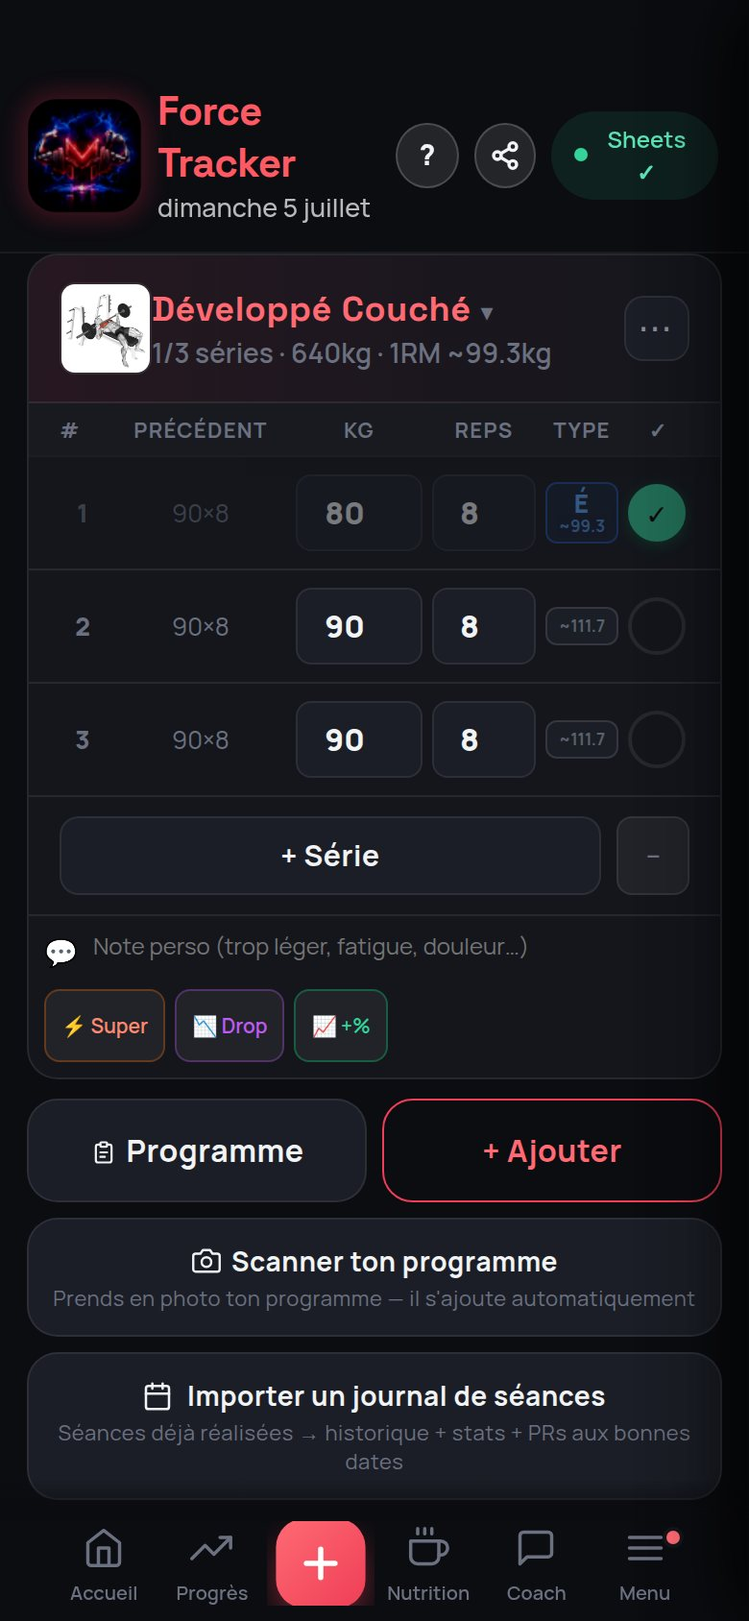
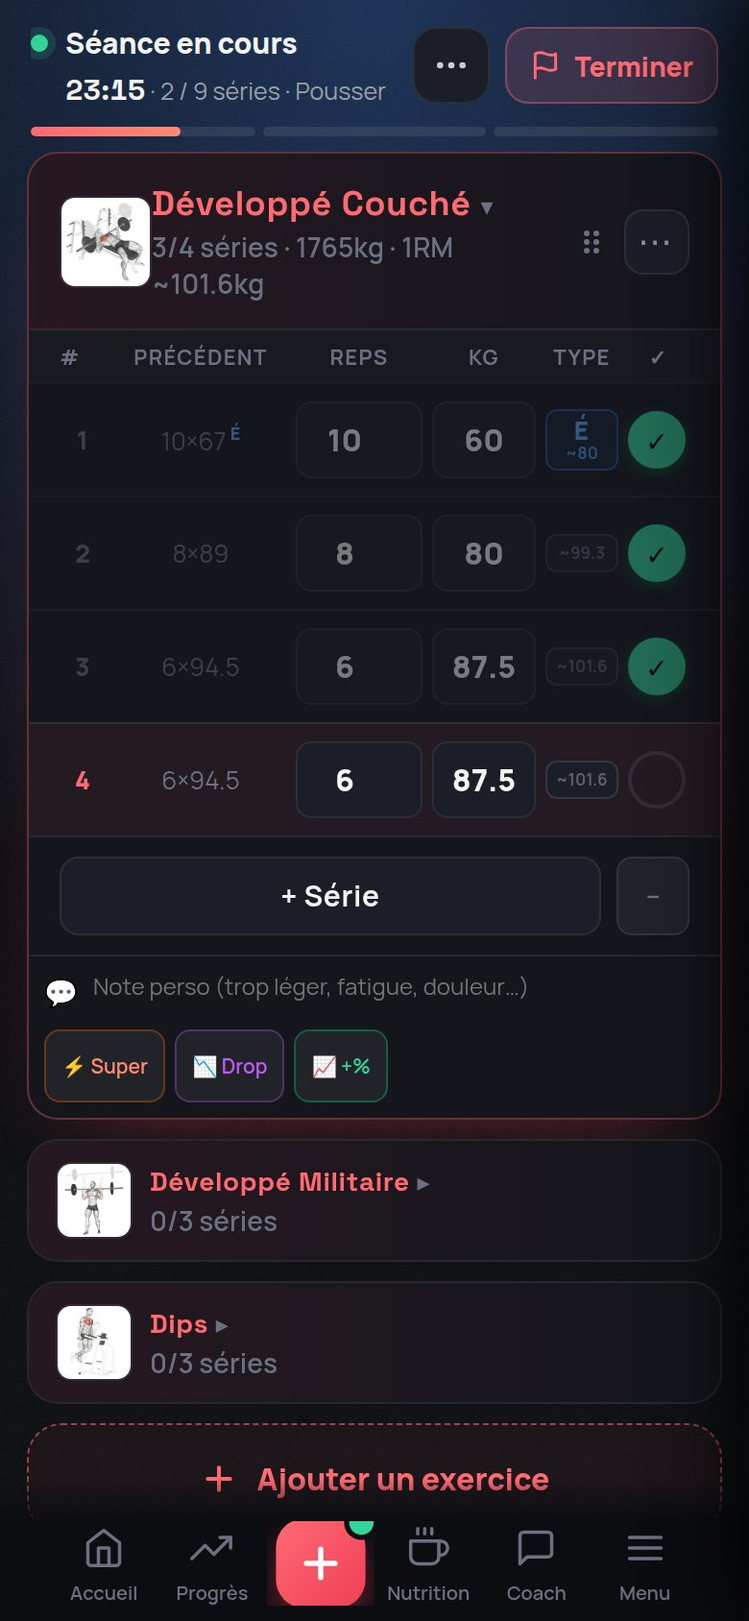
UX SÉANCE étapes 8-9 : règle d'or #11 (point rouge « seance-ux », aide « ? » de Séance, aide détaillée, pop-up « Quoi de neuf » v78 méritée : des repères ont bougé), diapo « Ta séance » du Guide (capture refaite, profil fictif, doigt sur la série en cours), anciennes aides corrigées (Pause / Vider /
Claude-Session: https://claude.ai/code/session_016mARM2eBnMWn61kG78Qd6C

diff --git a/coach.js b/coach.js
@@ -8402,7 +8402,7 @@ const _DRAWER_CONTENT = {
         +pcard('👟','Les chaussures','Haltéro/squat : chaussure à talon rigide (meilleure profondeur, buste plus droit). Soulevé de terre : semelle PLATE et fine (chausson, Converse) pour être stable et proche du sol. Évite les grosses semelles moelleuses sous la barre.',[{src:'accessoires/chaussures.jpg'}])
         +pcard('🧗♂','Craie / magnésie','Assèche les mains → bien meilleure prise sur la barre. Indispensable sur les soulevés lourds. Existe en <b>bloc/poudre</b> (le plus efficace) ou en <b>version liquide</b>, plus propre et souvent autorisée quand ta salle interdit la poudre.',[{src:'accessoires/magnesie-bloc.jpg',cap:'Bloc / poudre'},{src:'accessoires/magnesie-liquide.jpg',cap:'Liquide'}])
         +sec('🔥 Les techniques — monte en intensité')
-        +card('⚡','Superset','Deux exercices ENCHAÎNÉS sans repos (ex. biceps + triceps). Gain de temps + grosse congestion. Dans Force Tracker : bouton « ⚡ Grouper » en séance, ou « Superset » dans l\'éditeur de programme.')
+        +card('⚡','Superset','Deux exercices ENCHAÎNÉS sans repos (ex. biceps + triceps). Gain de temps + grosse congestion. Dans Force Tracker : « Grouper des exercices » dans le menu ⋯ de la séance, ou « Superset » dans l\'éditeur de programme.')
         +card('📉','Drop set','Tu vas à l\'échec, puis tu BAISSES la charge (~20%) et tu continues sans repos, une ou plusieurs fois. Brutal pour finir un muscle. Dispo via le bouton 📉 Drop.')
         +card('⏸','Rest-pause','À l\'échec, tu poses la barre 10-15s, puis tu arraches quelques reps de plus. Permet plus de reps avec la même charge lourde.')
         +card('🔺','Pyramide','Tu montes la charge en baissant les reps série après série (ex. 12→10→8→6), ou l\'inverse. Bon mélange volume + force. Bouton 📈 +% en séance.')
@@ -8451,6 +8451,10 @@ const _DRAWER_CONTENT = {
            une question ouverte. */
         {ic:'🏃',t:'Noter un cardio ≠ enregistrer la séance',d:'Le bloc <b>Cardio</b> de l\'écran Séance sert à <b>noter</b> : le type (tapis, vélo, rameur…), l\'intensité et la durée, <b>avant</b> la muscu (échauffement) ou <b>après</b> (cardio de fin). Son bouton s\'appelle <b>« ✓ C\'est noté »</b> et il ne fait qu\'une chose : ranger ta saisie et replier le bloc. <b>Il n\'enregistre pas ta séance</b>, et c\'est voulu — on saisit souvent son cardio <b>pendant</b> qu\'on s\'entraîne, pas à la fin.<br><br>⭐ <b>Un seul bouton rouge par écran, et c\'est celui qui enregistre.</b> En bas de l\'écran Séance : <b>« 🏁 Terminer la séance »</b> si tu as validé des séries, <b>« 🏁 Enregistrer le cardio »</b> si tu n\'as fait que du cardio. Avant le 04/09/2026 le bouton du bloc était rouge lui aussi et disait « Enregistrer le cardio » : <b>deux boutons, presque les mêmes mots, un seul enregistrait</b>. Rien ne permettait de les distinguer.<br><br>⚠ <b>Ce que ça coûtait</b> : une séance de cardio seul n\'a aucun exercice, et plusieurs endroits de l\'app en déduisaient « il n\'y a rien ». Tu pouvais noter 45 min de tapis, repasser par l\'Accueil, retaper le bouton rouge — et ta saisie disparaissait sans un mot. C\'est corrigé : tant qu\'une séance attend, l\'Accueil affiche <b>« ↩ Reprendre la séance »</b>, l\'app te le redit à l\'ouverture, et une copie de secours est gardée.<br><br>⭐ <b>Une séance de cardio seul est une vraie séance</b> : elle a sa durée, ses calories (calculées depuis le MET du type et ton poids), elle apparaît dans ton calendrier, elle ferme une séance annoncée à Milo, et Milo en tient compte. ⚠ En revanche elle pèse encore <b>peu</b> sur ton score de récupération — ce barème-là reste à régler, et on ne l\'invente pas.'},
         {ic:'⚡',t:'Démarrer une séance',d:'Bouton rouge central ⚡ en bas de l\'écran (le « + »). Ajoute tes exercices, saisis kg × reps, valide chaque série avec ✓. Le timer de repos se lance automatiquement entre les séries — et c\'est un <b>MAXIMUM</b>, pas un temps à attendre : tu peux repartir avant, c\'est permis. Il ne s\'arrête plus à zéro, il continue en +0:12, +0:45… avec « au-delà de ton repos max ». ⚠ Ce n\'est ni un reproche ni une erreur d\'affichage : c\'est une information, parce que le repos réellement pris vaut souvent 2 à 3 fois le repos réglé. Au-delà de 15 min il s\'arrête seul (ce n\'est plus un repos). Astuce : dans la recherche d\'exercices, tes FAVORIS (ceux que tu utilises le plus souvent) remontent automatiquement en tête, avec une ★ — tu retrouves tes mouvements habituels sans scroller.'},
+        /* 🏋 UX SÉANCE (16/10/2026, cadrage validé) — règle d'or #11, point 4 : l'aide détaillée de la nouvelle forme de
+           l'écran. L'endroit du POURQUOI : ce qui sert à la salle reste sous la main, le rare est rangé — et ce qui NE
+           change PAS (séries, records, historique, moteur du repos). */
+        {ic:'🏋',t:'L\'écran Séance : ce qui a changé, et pourquoi',d:'Depuis le <b>16/10/2026</b>, l\'écran Séance garde sous la main ce qui sert <b>à la salle</b> et range le reste. <b>Avant</b> la séance : « Séance libre » ou « Programme », puis ta récup et ta dernière séance, les types de séance, et plus bas le cardio et l\'import. <b>Pendant</b> : la barre du haut devient l\'<b>en-tête de la séance</b> — chrono, <b>séries de travail faites / prévues</b> (les échauffements ne comptent pas, comme pour savoir si un exercice est fini), ⋯ et « Terminer ». Les actions rares (pause, date, tout dérouler, grouper, programmes, vider, abandonner) sont dans <b>⋯</b>, l\'aide « ? » aussi. <b>« Terminer »</b> enregistre tout de suite si toutes tes séries de travail sont faites ; sinon il te dit combien il en reste — tu continues ou tu termines quand même, rien n\'est perdu. Le <b>repos</b> s\'affiche en bas et ne décale plus ta liste ; 1:00 · 1:30 · 2:00 sont dans <b>Régler</b> (touche le temps ✎). Une <b>pastille verte</b> sur le « + » rappelle qu\'une séance est ouverte : le « + » te ramène à <b>la même</b> séance, il n\'en crée jamais une deuxième. ⛔ <b>Rien ne change</b> dans tes séries, tes records ou ton historique.'},
         /* ⚠ « Timer : É 45s » est devenu FAUX le 31/08 (ft-v1082) : le repos d'un palier suit
            maintenant sa charge. Une aide qui annonce un chiffre que l'app n'applique plus est
            pire qu'une aide absente, parce qu'on la croit (R23). Le détail va dans l'entrée 🔥
@@ -8462,7 +8466,7 @@ const _DRAWER_CONTENT = {
            ③ pourquoi le nombre de paliers baisse sans que rien n'ait été supprimé — sans ③,
            « il a enlevé mes séries » est la lecture la plus naturelle. */
         {ic:'🔥',t:'Ton échauffement se dose à ta charge',d:'Quand Milo te propose une séance, l\'app <b>complète sa montée en charge</b> si elle la trouve trop courte — et elle gère le <b>repos entre les paliers</b>. Deux choses ont changé le 31/08, toutes les deux mesurées sur de vraies séances. <b>① LE REPOS SUIVAIT LE TYPE DE SÉRIE, PAS LA CHARGE.</b> Un palier d\'échauffement donnait <b>45 secondes, à plat</b>, quel que soit le poids. Mesuré sur une montée vers <b>130 kg</b> : tu passais à <b>115 kg — 88 % de ta charge du jour — quarante-cinq secondes</b> après un palier à 100. Le repos se lit maintenant sur la charge du palier <b>qui vient</b> : <b>45 s</b> tant qu\'on est léger, <b>90 s</b> dès 75 % de ta charge de travail, <b>2 min</b> dès 85 %. Ce sont exactement les <b>mêmes seuils</b> que ceux qui décident du nombre de répétitions d\'un palier (5 → 3 → 2 → 1) : un palier qui mérite d\'être fait en une répétition mérite d\'être abordé reposé. La barre affiche « <b>palier lourd</b> » quand elle applique ça — sinon un chrono qui passe de 45 s à 2 min se lirait comme un bug. ⛔ <b>DEUX BORNES, ET ELLES COMPTENT.</b> On ne <b>raccourcit</b> jamais rien : 45 s reste le plancher. Et on ne dépasse <b>jamais ton propre repos de travail</b> — si tu l\'as réglé à 1 min, un palier lourd prend 1 min, parce que se reposer plus entre deux échauffements qu\'entre deux séries lourdes n\'aurait aucun sens. ⏳ Et comme partout dans l\'app, <b>c\'est un maximum, pas un compte à rebours</b> : tu peux repartir avant. <b>② L\'APP AJOUTAIT LE MÊME NOMBRE DE PALIERS À TOUTES LES CHARGES.</b> Son plafond était de <b>5, en dur</b>. Or Milo écrit presque toujours 3 paliers avec de gros écarts, donc elle en insérait 2 <b>à chaque fois</b> : mesuré, <b>5 paliers et 19 répétitions d\'échauffement de 60 kg jusqu\'à 150 kg</b>, à l\'identique. <i>Un squat à 60 kg recevait le protocole d\'un squat à 150.</i> Le plafond vaut désormais ce que l\'app produirait <b>si elle construisait la montée elle-même</b> pour cette charge — un barème qui sait déjà doser (2 paliers à 50 kg, 3 à 70, 4 à 130). Une seule réponse à la question « combien de paliers cette charge mérite-t-elle ». <b>⛔ ET ELLE N\'ENLÈVE JAMAIS RIEN.</b> Le nombre de séries ne <b>diminue jamais</b> par rapport à ce que Milo t\'a écrit — c\'est une règle posée depuis août, après un cas réel où l\'app affichait 5 séries pour 6 annoncées dans le chat. Ce qui change, c\'est qu\'elle arrête d\'en <b>rajouter</b>. Si ta montée s\'est raccourcie, c\'est que les paliers en trop venaient de l\'app, pas de Milo.'},
-        {ic:'⚡',t:'Super-séries & Pyramides',d:'Deux façons de créer un superset : 1) le bouton "⚡ Grouper" (dès 2 exercices) → sélectionne les exercices → "Lier en supersérie". 2) Plus rapide : attrape la petite poignée (6 points, à côté du ⋯) sur un exercice et glisse-le sur un autre → le superset se crée tout seul. Ça marche EN SÉANCE et dans l\'ÉDITEUR DE PROGRAMME (✏ — glisse une carte sur une autre). Enchaînement sans repos entre eux, avance automatique + vibration entre les blocs. Pour défaire : "↩ Retirer". Sous chaque exercice : 📉 Drop set (−10% auto) · 📈 Pyramide + (+10%) · 📉 Pyramide − (−10%).'},
+        {ic:'⚡',t:'Super-séries & Pyramides',d:'Deux façons de créer un superset : 1) ⋯ → « Grouper des exercices » (dès 2 exercices) → sélectionne les exercices → "Lier en supersérie". 2) Plus rapide : attrape la petite poignée (6 points, à côté du ⋯) sur un exercice et glisse-le sur un autre → le superset se crée tout seul. Ça marche EN SÉANCE et dans l\'ÉDITEUR DE PROGRAMME (✏ — glisse une carte sur une autre). Enchaînement sans repos entre eux, avance automatique + vibration entre les blocs. Pour défaire : "↩ Retirer". Sous chaque exercice : 📉 Drop set (−10% auto) · 📈 Pyramide + (+10%) · 📉 Pyramide − (−10%).'},
         {ic:'🔥',t:'D\'où vient ton métabolisme de base',d:'Le <b>BMR</b> (onglet Nutrition) est ce que ton corps brûle au repos, sans rien faire. C\'est <b>60 à 70 % de ta dépense totale</b> — de loin le plus gros morceau, donc celui où la précision compte le plus. L\'app peut le calculer de deux façons, et elle <b>dit toujours laquelle</b> sur la ligne juste sous le chiffre. <b>① Formule générique (Mifflin-St Jeor)</b> : poids, taille, âge, sexe. C\'est ce qu\'utilisent la plupart des applis — mais elle ne connaît que ton poids TOTAL, donc elle traite 84 kg de muscle exactement comme 84 kg de gras, et elle sous-estime les personnes musclées. <b>② Sur ta masse maigre (Katch-McArdle)</b> : <i>370 + 21,6 × ta masse maigre en kg</i>. Elle s\'active dès que tu as un <b>bilan corporel</b> (Progrès → Corps &amp; santé) ou un <b>% de masse grasse</b> noté sur une pesée. L\'écart est réel : sur un gabarit de 84 kg à 15 % de masse grasse, c\'est <b>~180 kcal par jour</b>. <b>Quand l\'app REFUSE de l\'utiliser</b> : si ton bilan a plus de 3 mois, ou si ton poids a bougé de plus de 5 % depuis — parce qu\'on ne sait pas si ces kilos sont du muscle ou du gras, et deviner fausserait tout le reste. Elle te le dit alors, elle ne bascule jamais en silence. <b>Et le chiffre de ta balance ?</b> Il est enregistré et Milo le voit, mais il n\'entre pas dans le calcul : chaque marque a sa formule maison, invérifiable. On préfère une formule publiée, appliquée à TA mesure — un chiffre que tu peux refaire toi-même sur un coin de table.'},
         {ic:'🔀',t:'Les exercices « un côté à la fois »',d:'48 exercices de l\'app sont <b>unilatéraux</b> : la série se refait de l\'autre côté (rowing haltère, curl haltères, fentes, squat bulgare, élévations latérales à un bras, extension quadriceps unilatérale…). En séance, ils portent une pastille <b>🔀 « par bras »</b> ou <b>« par jambe »</b> à côté de leur nom — tape-la pour tout revoir. <b>QUEL POIDS NOTER</b> — une seule règle, valable partout dans l\'app : <b>tu notes le poids qui BOUGE pendant la répétition</b>. Un seul haltère monte (rowing haltère, curl alterné, élévation à un bras) → note son poids à lui, 28, jamais 56. Les deux bougent en même temps (squat bulgare avec deux haltères, développé incliné) → note le total, 60. <b>COMBIEN DE SÉRIES</b> : tu saisis <b>3</b>, comme d\'habitude — pas 6. L\'app sait qu\'il faut refaire chaque série de l\'autre côté, et <b>compte ton tonnage en double</b> toute seule. Ton <b>record</b>, lui, reste calculé sur la charge d\'un seul côté : c\'est la vraie charge que ton muscle a tenue. ⚠ Un côté plus faible que l\'autre ne peut pas se noter séparément aujourd\'hui — ça doublerait la saisie pour tout le monde ; dis-le si ça te manque. Tes séances déjà enregistrées ne bougent pas.'},
         /* 🗂 PROGRES-SEANCES-01 (14/10/2026) — règle d'or #11, point 4 : l'aide détaillée de la nouvelle organisation. */
@@ -8490,7 +8494,9 @@ const _DRAWER_CONTENT = {
         {ic:'📸',t:'Import de programme',d:'Bouton 📸 dans la séance pour importer depuis une photo, un fichier Word (.docx) ou Excel (.xlsx). Le Coach IA extrait automatiquement les exercices, séries et charges.'},
         {ic:'📷',t:'Photo sur tes exercices',d:'Tu peux coller une photo sur N\'IMPORTE quel exercice (perso OU de la bibliothèque) : ⋯ sur l\'exercice → "Ajouter/Changer la photo". Idéal pour reconnaître TA machine sur un exercice existant (ex. ta chest press sur "Chest Press Machine Inclinée"). Dans la liste de choix, tape la vignette à gauche pour voir la photo en grand (sans ajouter l\'exercice). Ta photo est privée à ton compte. Pour créer un exercice inexistant : "+ Créer un exercice".'},
         {ic:'✏',t:'Modifier un exercice perso',d:'Tape le ⋯ sur un exercice perso → "Modifier l\'exercice" (ou le ✎ dans la liste de choix). Tu peux changer son nom, son groupe musculaire et les muscles ciblés — ton historique et tes records suivent le nouveau nom, rien n\'est perdu. Ça ne touche que TES exercices perso (privés à ton compte).'},
-        {ic:'⏸',t:'Pause & Vider la séance',d:'Nouveau : en haut de la séance, "Pause" fige le chrono de durée si tu t\'interromps (le temps en pause n\'est pas compté) — "Reprendre" relance. "Vider" retire tous les exercices d\'un coup (utile si tu as chargé le mauvais programme), la séance reste ouverte et ton historique n\'est pas touché. Le "✕" annule complètement la séance.'},
+        /* UX SÉANCE (16/10/2026) — ces trois actions vivent désormais dans le menu ⋯ de la séance (plus de « Pause » ni de « ✕ »
+           en haut) : le texte suit, sinon il désignerait des boutons qui n'existent plus (la leçon de ft-v1012 / ft-v1026). */
+        {ic:'⏸',t:'Pause & Vider la séance',d:'Dans le menu <b>⋯</b> de la séance : « Mettre en pause » fige le chrono de durée si tu t\'interromps (le temps en pause n\'est pas compté) — ▶ en haut, ou « Reprendre la séance » dans ⋯, le relance. « Vider la séance » retire tous les exercices d\'un coup (utile si tu as chargé le mauvais programme), la séance reste ouverte et ton historique n\'est pas touché. « Abandonner la séance » l\'annule complètement : rien n\'est enregistré.'},
         {ic:'🔗',t:'La colonne « précédent » est vide ? c\'est un NOM, pas une perte',d:'La colonne <b>précédent</b> cherche tes anciennes séries <b>au nom exact de l\'exercice</b>. Si une séance proposée par Milo écrit <i>« Développé Épaules Assis Machine »</i> alors que ton historique porte <i>« Développé Épaules Assis Machine <b>(Shoulder Press)</b> »</i>, l\'app y voit <b>deux exercices différents</b> — d\'où un tiret à la place de tes charges, et une progression qui repart de zéro. ⛔ <b>Rien n\'est perdu dans ce cas</b> : tes séries sont toujours là, rangées sous l\'autre nom. ⭐ <b>Depuis le 06/09, la porte est fermée</b> : un nom qui ne diffère que par le suffixe entre parenthèses est <b>recollé au nom du catalogue</b> avant que la séance ne démarre. ⚠ <b>Et seulement celui-là</b> : <i>« Développé Épaules Machine »</i> et <i>« Développé Épaules Assis Machine »</i> restent deux machines <b>différentes</b> — mélanger leurs charges serait pire que le tiret, parce que tu les croirais. 👉 <b>Si le tiret persiste</b>, c\'est que tu fais vraiment cet exercice pour la première fois — ou qu\'il est rangé sous un nom que le catalogue ne connaît pas (un exercice que tu as créé).'},
         {ic:'📈',t:'Progrès & PRs',d:'Les PRs se calculent automatiquement via Brzycki (1RM estimé). Progrès → <b>Exercices</b> → graphique par exercice · Progrès → <b>Corps &amp; santé</b> → courbe de poids · Progrès → <b>Badges</b> → 18 récompenses à débloquer · Progrès → <b>Séances</b> → tout ton historique, par année et par mois. Sur le graphe d\'un exercice : les boutons 3 mois / 6 mois / 1 an / Tout choisissent la période, et si tu tapes un point tu vois la charge de ce jour-là + un bouton « Voir cette séance » qui ouvre son détail. Tu peux aussi fixer un OBJECTIF de force (1RM visé) sous le graphe → barre de progression + ligne repère verte sur ta courbe. Tap sur une séance pour voir/modifier les séries — et sur chaque exercice de cette séance, l\'icône 📊 t\'ouvre sa progression (ton poids sur les dernières séances). Sur chaque carte d\'historique, le MUSCLE travaillé (ou le nom de la séance du programme) ressort en gros titre et les calories passent en petit. Et tu peux FILTRER ton historique par groupe musculaire : des chips (« Pectoraux », « Quadriceps »…) sous « Historique séances » — tape-en un pour ne voir que ces séances.'},
         {ic:'⚖',t:'Graphique de poids',d:'Onglet Progrès → Corps &amp; santé. Tape un point de la courbe pour modifier ou supprimer cette pesée (poids + date). Les boutons 1 mois / 3 mois / 6 mois / Tout choisissent la période affichée.'},

diff --git a/screens.js b/screens.js
@@ -424,6 +424,10 @@ const _HELP_DATA={
   log:{
     title:'⚡ Séance',
     tips:[
+      /* 🏋 UX SÉANCE (16/10/2026, cadrage validé par Michel) — règle d'or #11, point 3 : l'écran a changé de FORME.
+         Ce qu'on ne devine pas : où sont passés Pause / Vider / Changer et les préréglages de repos, et ce que compte
+         « N / M séries » (les séries de TRAVAIL, décision ①). */
+      {i:'🏋',t:'<b>L\'écran Séance a deux états</b> (depuis le 16/10/2026). <b>Avant</b> : « Séance libre » (tu ajoutes tes exercices un à un) ou « Programme ». <b>Pendant</b> : l\'en-tête « Séance en cours » remplace la barre du haut — chrono, <b>séries de travail faites / prévues</b> (les échauffements ne comptent pas), le bouton <b>⋯</b> (pause, date, tout dérouler, grouper, programmes, aide, vider, abandonner) et <b>« Terminer »</b>. S\'il reste des séries de travail, « Terminer » te le dit avant d\'enregistrer — « Continuer la séance » ne change rien. Le repos s\'affiche <b>en bas</b> ; touche le temps (✎) pour <b>régler</b> : 1:00 · 1:30 · 2:00 ou une durée exacte. Une carte repliée ne porte plus de boutons : <b>« Monter » / « Descendre »</b> sont dans le ⋯ de l\'exercice.'},
       /* 📷 ft-v1155 — CE QU'ON NE DEVINE PAS, et Michel en est la preuve : il a cherché comment
          charger SON programme et n'a pas trouvé l'import. « Si moi je ne le vois pas, les
          utilisateurs ne vont pas le voir non plus. » ⛔ L'aide dit la LIMITE en même temps que la
@@ -449,15 +453,15 @@ const _HELP_DATA={
          presque les mêmes mots et un seul enregistrait. Les libellés sont corrigés ; l'aide dit
          la règle générale (le bouton du bas est TOUJOURS celui qui enregistre) et la deuxième
          chose qu'on ne devine pas — qu'un cardio seul est une vraie séance. */
-      {i:'🏃',t:'<b>Deux boutons, un seul enregistre.</b> Dans le bloc Cardio, <b>« ✓ C\'est noté »</b> range ta saisie et replie le bloc — <b>ta séance n\'est pas encore enregistrée</b>. C\'est le <b>gros bouton rouge du bas</b> qui l\'inscrit dans ton historique : il s\'appelle <b>« 🏁 Terminer la séance »</b> si tu as validé des séries, <b>« 🏁 Enregistrer le cardio »</b> si tu n\'as fait que du cardio. ⭐ <b>Un cardio seul est une vraie séance</b> : il a sa durée, ses calories, il apparaît dans ton calendrier et Milo le voit. 💡 Tant qu\'elle n\'est pas enregistrée, l\'Accueil te le rappelle avec <b>« ↩ Reprendre la séance »</b>. 📈 Dans ton historique (onglet Progrès) elle s\'appelle <b>« 🏃 Cardio »</b> et dit ce que c\'était — « Tapis 45 min (Modéré) ».'},
-      {i:'💪',t:'<b>RIR — répétitions en réserve</b> : après une série de travail, la barre de repos demande « il t\'en restait combien ? ». Un tap, c\'est tout, et c\'est facultatif. <b>échec</b> = 0 en réserve — c\'est la même chose que le tag <b>X</b>. Tu le relis la fois d\'après dans « précédent » (<i>8×80·2r</i>), et Milo s\'en sert pour vérifier le cadre de ta discipline. Une série non notée n\'est <b>pas</b> comptée comme un échec. 🎚 <b>Tu préfères le RPE ?</b> Profil → <b>Échelle d\'effort</b> : la question, la colonne « précédent » (<i>8×80·@8</i>) et Milo passent en RPE. C\'est la <b>même mesure</b> (<i>RPE = 10 − RIR</i>) — rien n\'est perdu, et tu peux revenir.'},
+      {i:'🏃',t:'<b>Deux boutons, un seul enregistre.</b> Dans le bloc Cardio, <b>« ✓ C\'est noté »</b> range ta saisie et replie le bloc — <b>ta séance n\'est pas encore enregistrée</b>. C\'est <b>« Terminer »</b> — en haut, ou le <b>gros bouton rouge du bas</b> — qui l\'inscrit dans ton historique : il s\'appelle <b>« 🏁 Terminer la séance »</b> si tu as validé des séries, <b>« 🏁 Enregistrer le cardio »</b> si tu n\'as fait que du cardio. ⭐ <b>Un cardio seul est une vraie séance</b> : il a sa durée, ses calories, il apparaît dans ton calendrier et Milo le voit. 💡 Tant qu\'elle n\'est pas enregistrée, l\'Accueil te le rappelle avec <b>« ↩ Reprendre la séance »</b>. 📈 Dans ton historique (onglet Progrès) elle s\'appelle <b>« 🏃 Cardio »</b> et dit ce que c\'était — « Tapis 45 min (Modéré) ».'},
+      {i:'💪',t:'<b>RIR — répétitions en réserve</b> : après une série de travail, le repos (en bas de l\'écran) demande « il t\'en restait combien ? ». Un tap, c\'est tout, et c\'est facultatif. <b>échec</b> = 0 en réserve — c\'est la même chose que le tag <b>X</b>. Tu le relis la fois d\'après dans « précédent » (<i>8×80·2r</i>), et Milo s\'en sert pour vérifier le cadre de ta discipline. Une série non notée n\'est <b>pas</b> comptée comme un échec. 🎚 <b>Tu préfères le RPE ?</b> Profil → <b>Échelle d\'effort</b> : la question, la colonne « précédent » (<i>8×80·@8</i>) et Milo passent en RPE. C\'est la <b>même mesure</b> (<i>RPE = 10 − RIR</i>) — rien n\'est perdu, et tu peux revenir.'},
       {i:'🎽',t:'<b>Le repos exigé suit ta discipline</b> : l\'avertissement « repos trop court pour du lourd » ne dit plus la même chose à tout le monde. Il lit le <b>cadre de ta discipline</b> — celui que tu vois dans Profil — et le conseil cite <b>sa</b> plage (<i>3 à 5 min</i> en force athlétique). ⚠ Il ne se relâche jamais en dessous du repère d\'origine : il resserre seulement là où ton cadre est plus exigeant.'},
       {i:'📍',t:'<b>Charge sans repère</b> : si Milo propose un poids sur un exercice que tu n\'as <b>jamais noté dans l\'app</b>, un 📍 le signale sous l\'exercice. C\'est un <b>point de départ</b>, pas une mesure — il n\'a rien dans ton historique sur lequel se caler — <b>même si tu le pratiques depuis des années ailleurs</b>. Dès ta première série notée, le message disparaît et le contrôle d\'intensité (⚡) prend le relais.'},
       {i:'🔤',t:'Tags de série : É = Échauffement (exclu du volume et des PRs) · N = Normal, par défaut, non affiché · X = Échec musculaire. Appuie sur la pastille pour changer, le nom complet s\'affiche en toast.'},
-      {i:'⏱',t:'Timer adaptatif : É = 45s <b>si le palier suivant est léger</b>, <b>90s</b> à partir de 75 % de ta charge de travail, <b>2 min</b> à partir de 85 % (la barre affiche alors « palier lourd ») — jamais plus que ton repos de travail · N = 2:10 · X = 4min. Boutons −15s/+15s et presets 1:00/1:30/2:00. <b>C\'est un MAXIMUM, pas un temps à attendre</b> : tu peux repartir avant, c\'est permis. Le chrono ne s\'arrête plus à zéro — il continue en +0:12, +0:45… avec « au-delà de ton repos max ». Ce n\'est pas un reproche, c\'est une information ; au-delà de 15 min il s\'arrête seul.'},
-      {i:'⚡',t:'Super-séries : bouton "⚡ Grouper" dès 2 exercices → sélectionne-les → "Lier en supersérie". Enchaînement automatique sans repos. Boutons 📉 Drop / 📈 +10% / 📉 −10% pour pyramides et drop sets.'},
+      {i:'⏱',t:'Timer adaptatif : É = 45s <b>si le palier suivant est léger</b>, <b>90s</b> à partir de 75 % de ta charge de travail, <b>2 min</b> à partir de 85 % (la barre affiche alors « palier lourd ») — jamais plus que ton repos de travail · N = 2:10 · X = 4min. Boutons −15s/+15s ; les presets 1:00/1:30/2:00 sont dans « Régler » (touche le temps ✎). <b>C\'est un MAXIMUM, pas un temps à attendre</b> : tu peux repartir avant, c\'est permis. Le chrono ne s\'arrête plus à zéro — il continue en +0:12, +0:45… avec « au-delà de ton repos max ». Ce n\'est pas un reproche, c\'est une information ; au-delà de 15 min il s\'arrête seul.'},
+      {i:'⚡',t:'Super-séries : ⋯ → « Grouper des exercices » dès 2 exercices → sélectionne-les → "Lier en supersérie". Enchaînement automatique sans repos. Boutons 📉 Drop / 📈 +10% / 📉 −10% pour pyramides et drop sets.'},
       {i:'🔁',t:'« maxi » : dans l\'éditeur de programme, touche le bouton « max » à côté des reps d\'une série pour viser le maximum de répétitions (au lieu d\'un chiffre exact). En séance, la case affiche « max » et tu notes ce que tu as vraiment fait.'},
-      {i:'✋',t:'Superset au doigt : sur un exercice pas encore en superset, attrape la petite poignée (6 points, à côté du ⋯) et glisse-le sur un autre exercice → le superset se crée tout seul. Plus rapide que le bouton "⚡ Grouper". Pour défaire : "↩ Retirer". Marche aussi dans l\'éditeur de programme (✏) : glisse une carte exercice sur une autre.'},
+      {i:'✋',t:'Superset au doigt : sur un exercice pas encore en superset, attrape la petite poignée (6 points, à côté du ⋯) et glisse-le sur un autre exercice → le superset se crée tout seul. Plus rapide que « Grouper des exercices » (menu ⋯). Pour défaire : "↩ Retirer". Marche aussi dans l\'éditeur de programme (✏) : glisse une carte exercice sur une autre.'},
       /* 🎯 DEBRIEF-ON-DEMAND-01 — règle d'or #11, point 3 (Séance) : la fin de séance a changé. */
       {i:'✨',t:'<b>Fin de séance</b> : tes chiffres (volume, records, ce que tu as travaillé) s\'affichent <b>tout de suite</b>, sans réseau. L\'avis de Milo, lui, se <b>demande</b> : <b>« ✨ Analyser cette séance avec Milo »</b>. Sans ce geste, aucun appel à l\'IA. Pas de réseau ou Milo indisponible ? Rien n\'est enregistré, et <b>Réessayer</b> reste là — tu peux aussi le faire plus tard depuis Progrès.'},
       /* 🛡 SESSION-INTEGRITY-01 — règle d'or #11, point 3 (Séance) : le comportement du remplacement a changé. */
@@ -469,8 +473,10 @@ const _HELP_DATA={
       {i:'⭐',t:'Recherche d\'exercices : quand tu cherches un exercice à ajouter, tes FAVORIS (ceux que tu utilises le plus souvent) remontent automatiquement en haut de la liste, avec une petite ★. Plus besoin de scroller pour retrouver tes mouvements habituels.'},
       {i:'🌱',t:'Débutant ? Dans 📋 Mes Programmes, bouton vert « Créer mon parcours débutant » : 2 questions (2 ou 3 séances/sem, style Full Body ou Split) et hop, un programme sur mesure sur machines (sécurité), adapté à ton profil. Étape 1 gratuite sur 3 semaines. +2,5 kg le haut du corps, +5 kg les jambes quand tes séries passent. Les mouvements techniques (squat, couché, soulevé) se débloquent ensuite. Pense au cardio léger en fin de séance.'},
       {i:'📄',t:'Exporter en PDF : dans 📋 Mes Programmes, le bouton 📄 PDF génère un vrai fichier PDF du programme (exercices, séries × reps, colonne « Poids » vide à remplir à la salle). Sur iPhone, le menu Partager s\'ouvre (Enregistrer dans Fichiers, envoyer par message…) ; sur ordi ça se télécharge. Marche même hors-ligne.'},
-      {i:'⏸',t:'Bouton "Pause" en haut : fige le chrono de durée si tu dois t\'interrompre (appel, pause…). Le temps en pause n\'est pas compté dans la durée de la séance. Appuie sur "Reprendre" pour relancer.'},
-      {i:'🗑',t:'Bouton "Vider" : retire tous les exercices d\'un coup si tu as chargé le mauvais programme. La séance reste ouverte et ton historique n\'est pas touché. (Le "✕" à côté annule complètement la séance.)'},
+      /* UX SÉANCE (16/10/2026) — « Pause », « Vider » et « ✕ » ont quitté le haut de la séance pour le menu ⋯ : ces deux
+         astuces désignaient des boutons qui n'existent plus (la leçon de ft-v1012 / ft-v1026). */
+      {i:'⏸',t:'<b>⋯ → « Mettre en pause »</b> : fige le chrono de durée si tu dois t\'interrompre (appel, pause…). Le temps en pause n\'est pas compté dans la durée de la séance. Touche <b>▶</b> en haut (ou « Reprendre la séance » dans ⋯) pour relancer.'},
+      {i:'🗑',t:'<b>⋯ → « Vider la séance »</b> : retire tous les exercices d\'un coup si tu as chargé le mauvais programme. La séance reste ouverte et ton historique n\'est pas touché. (« Abandonner la séance », juste en dessous, l\'annule complètement.)'},
       {i:'📷',t:'Photo sur n\'importe quel exercice : tape le ⋯ sur un exercice (perso OU de la bibliothèque) → "Ajouter/Changer la photo". Pratique pour coller la photo de TA machine sur un exercice existant. Dans la liste de choix, tape la petite photo à gauche pour la voir en grand (ça n\'ajoute pas l\'exercice). Ta photo reste privée à ton compte.'},
       {i:'✏',t:'Modifier un exercice perso : tape le ⋯ sur l\'exercice → "Modifier l\'exercice" (ou le ✎ dans la liste). Tu peux changer le nom, le groupe et les muscles — sans perdre ton historique ni tes records. Ne marche que sur TES exercices perso (les autres restent intacts).'},
       {i:'⚖',t:'<b>Quel poids noter ?</b> Pour une <b>barre</b>, note la charge <b>totale</b>, barre comprise (barre de 20 kg + 60 kg de disques = <b>80</b>). Pour une <b>machine</b> (presse, poulie…), note simplement <b>ce que tu charges</b> : le poids du chariot varie d\'une machine à l\'autre et ne se compte pas. L\'important est de faire <b>toujours pareil</b> — c\'est ce qui rend tes progrès comparables dans le temps.'},

diff --git a/translations.js b/translations.js
@@ -91,6 +91,56 @@
     "REPRISE DANS":{en:"RESUME IN",es:"REANUDAR EN",el:"ΣΥΝΕΧΕΙΑ ΣΕ",ru:"ВОЗОБНОВЛЕНИЕ ЧЕРЕЗ"},
     "C'EST REPARTI":{en:"LET'S GO",es:"¡VAMOS!",el:"ΠΑΜΕ",ru:"ПОЕХАЛИ"},
     "Note perso (trop léger, fatigue, douleur…)":{en:"Personal note (too light, tired, pain…)",es:"Nota personal (muy ligero, cansancio, dolor…)",el:"Προσωπική σημείωση (πολύ ελαφρύ, κούραση, πόνος…)",ru:"Личная заметка (слишком легко, усталость, боль…)"},
+    // 🏋 UX SÉANCE (16/10/2026) — les libellés du nouvel écran Séance : avant la séance, en-tête « Séance en cours »,
+    // menu ⋯, porte de fin, bilan du bas, dock de repos. Ils n'existaient pas : sans eux, un anglophone lisait du
+    // français au milieu de sa séance. ⚠ Correspondance EXACTE du texte (voir `_apply`) : un libellé qui change en
+    // français doit changer ici aussi. Les compteurs (« 3 / 12 ») restent des nombres ; seule l'unité se traduit, et
+    // le russe prend l'abréviation « подх. » pour ne pas avoir à accorder le pluriel au nombre.
+    // ⚠ MESURÉ LE 16/10 : ce fichier n'est chargé par AUCUNE page (aucun <script>, pas dans sw.js — voir 348556e1,
+    // « le multilingue n'est branché nulle part »). Ces entrées tiennent le dictionnaire à jour ; elles n'ont aucun
+    // effet visible tant que le multilingue n'est pas rebranché — ce qui est une décision de Michel, pas de ce chantier.
+    "Séance libre":{en:"Free workout",es:"Sesión libre",el:"Ελεύθερη προπόνηση",ru:"Свободная тренировка"},
+    "Ajoute tes exercices un à un":{en:"Add your exercises one by one",es:"Añade tus ejercicios uno a uno",el:"Πρόσθεσε τις ασκήσεις σου μία μία",ru:"Добавляй упражнения по одному"},
+    "Crée ou importe ton programme":{en:"Create or import your program",es:"Crea o importa tu programa",el:"Δημιούργησε ή εισήγαγε το πρόγραμμά σου",ru:"Создай или импортируй свою программу"},
+    "Dernière séance :":{en:"Last workout:",es:"Última sesión:",el:"Τελευταία προπόνηση:",ru:"Последняя тренировка:"},
+    "Autres options":{en:"Other options",es:"Otras opciones",el:"Άλλες επιλογές",ru:"Другие варианты"},
+    "Séance en cours":{en:"Workout in progress",es:"Sesión en curso",el:"Προπόνηση σε εξέλιξη",ru:"Тренировка идёт"},
+    "Séance en pause":{en:"Workout paused",es:"Sesión en pausa",el:"Προπόνηση σε παύση",ru:"Тренировка на паузе"},
+    "série":{en:"set",es:"serie",el:"σετ",ru:"подх."},
+    "séries":{en:"sets",es:"series",el:"σετ",ru:"подх."},
+    "Cardio":{en:"Cardio",es:"Cardio",el:"Καρδιο",ru:"Кардио"},
+    "Mettre en pause":{en:"Pause",es:"Pausar",el:"Παύση",ru:"Поставить на паузу"},
+    "Reprendre la séance":{en:"Resume workout",es:"Reanudar la sesión",el:"Συνέχιση προπόνησης",ru:"Возобновить тренировку"},
+    "Le chrono s'arrête, rien n'est perdu":{en:"The timer stops, nothing is lost",es:"El cronómetro se detiene, no se pierde nada",el:"Το χρονόμετρο σταματά, τίποτα δεν χάνεται",ru:"Секундомер остановится, ничего не потеряется"},
+    "Le chrono repart d'où il s'était arrêté":{en:"The timer picks up where it stopped",es:"El cronómetro sigue donde se detuvo",el:"Το χρονόμετρο συνεχίζει από εκεί που σταμάτησε",ru:"Секундомер продолжит с того же места"},
+    "Date de la séance":{en:"Workout date",es:"Fecha de la sesión",el:"Ημερομηνία προπόνησης",ru:"Дата тренировки"},
+    "Aujourd'hui":{en:"Today",es:"Hoy",el:"Σήμερα",ru:"Сегодня"},
+    "Tout dérouler":{en:"Expand all",es:"Desplegar todo",el:"Ανάπτυξη όλων",ru:"Развернуть всё"},
+    "Voir les séries de tous les exercices":{en:"See the sets of every exercise",es:"Ver las series de todos los ejercicios",el:"Δες τα σετ όλων των ασκήσεων",ru:"Показать подходы всех упражнений"},
+    "Un exercice à la fois":{en:"One exercise at a time",es:"Un ejercicio a la vez",el:"Μία άσκηση τη φορά",ru:"По одному упражнению"},
+    "Seul l'exercice en cours reste ouvert":{en:"Only the current exercise stays open",es:"Solo el ejercicio en curso queda abierto",el:"Μόνο η τρέχουσα άσκηση μένει ανοιχτή",ru:"Открыто только текущее упражнение"},
+    "Grouper des exercices":{en:"Group exercises",es:"Agrupar ejercicios",el:"Ομαδοποίηση ασκήσεων",ru:"Объединить упражнения"},
+    "Superset ou circuit":{en:"Superset or circuit",es:"Superserie o circuito",el:"Σούπερσετ ή κύκλος",ru:"Суперсет или круговая"},
+    "Programmes":{en:"Programs",es:"Programas",el:"Προγράμματα",ru:"Программы"},
+    "Charger un programme, ou enregistrer celle-ci":{en:"Load a program, or save this one",es:"Cargar un programa o guardar esta",el:"Φόρτωσε ένα πρόγραμμα ή αποθήκευσε αυτή",ru:"Загрузить программу или сохранить эту"},
+    "Aide de l'écran Séance":{en:"Workout screen help",es:"Ayuda de la pantalla Sesión",el:"Βοήθεια οθόνης προπόνησης",ru:"Справка по экрану тренировки"},
+    "Vider la séance":{en:"Clear the workout",es:"Vaciar la sesión",el:"Άδειασμα προπόνησης",ru:"Очистить тренировку"},
+    "Retire les exercices, la séance reste ouverte":{en:"Removes the exercises, the workout stays open",es:"Quita los ejercicios, la sesión sigue abierta",el:"Αφαιρεί τις ασκήσεις, η προπόνηση μένει ανοιχτή",ru:"Удаляет упражнения, тренировка остаётся открытой"},
+    "Abandonner la séance":{en:"Discard the workout",es:"Abandonar la sesión",el:"Εγκατάλειψη προπόνησης",ru:"Отменить тренировку"},
+    "Rien ne sera enregistré":{en:"Nothing will be saved",es:"No se guardará nada",el:"Δεν θα αποθηκευτεί τίποτα",ru:"Ничего не сохранится"},
+    "Terminer quand même ?":{en:"Finish anyway?",es:"¿Terminar de todos modos?",el:"Τέλος παρ' όλα αυτά;",ru:"Всё равно завершить?"},
+    "Terminer quand même":{en:"Finish anyway",es:"Terminar igualmente",el:"Τέλος παρ' όλα αυτά",ru:"Всё равно завершить"},
+    "Continuer la séance":{en:"Keep training",es:"Seguir con la sesión",el:"Συνέχεια προπόνησης",ru:"Продолжить тренировку"},
+    "Ta séance jusqu'ici":{en:"Your workout so far",es:"Tu sesión hasta ahora",el:"Η προπόνησή σου μέχρι τώρα",ru:"Твоя тренировка на данный момент"},
+    "durée":{en:"duration",es:"duración",el:"διάρκεια",ru:"длительность"},
+    "volume":{en:"volume",es:"volumen",el:"όγκος",ru:"объём"},
+    "🏁 Terminer la séance":{en:"🏁 Finish workout",es:"🏁 Terminar sesión",el:"🏁 Τέλος προπόνησης",ru:"🏁 Завершить тренировку"},
+    "🏁 Enregistrer le cardio":{en:"🏁 Save cardio",es:"🏁 Guardar cardio",el:"🏁 Αποθήκευση καρδιο",ru:"🏁 Сохранить кардио"},
+    "Monter":{en:"Move up",es:"Subir",el:"Πάνω",ru:"Выше"},
+    "Descendre":{en:"Move down",es:"Bajar",el:"Κάτω",ru:"Ниже"},
+    "Régler le repos":{en:"Set rest time",es:"Ajustar el descanso",el:"Ρύθμιση ανάπαυσης",ru:"Настроить отдых"},
+    "Temps de repos":{en:"Rest time",es:"Tiempo de descanso",el:"Χρόνος ανάπαυσης",ru:"Время отдыха"},
+    "Un repos rapide, ou la durée exacte de cette pause":{en:"A quick rest, or the exact length of this break",es:"Un descanso rápido, o la duración exacta de esta pausa",el:"Γρήγορη ανάπαυση ή η ακριβής διάρκεια αυτού του διαλείμματος",ru:"Быстрый отдых или точная длительность этой паузы"},
 
     // Nutrition
     "Ajouter un aliment":{en:"Add a food",es:"Añadir alimento",el:"Προσθήκη τροφής",ru:"Добавить продукт"},

diff --git a/constants.js b/constants.js
@@ -542,6 +542,10 @@ const FEAT_SI = {
   testeur:       () => { try{ return typeof _isTester==='function' && _isTester(); }catch(e){ return false; } }
 };
 const NEW_FEATURES=[
+  /* 🏋 POINT ROUGE sur SÉANCE (UX SÉANCE, 16/10/2026, cadrage validé par Michel) — l'écran Séance a changé de FORME :
+     c'est là que la pastille doit ramener. ⛔ Sans `spot`, comme les entrées voisines de cet écran : un ancrage qui
+     n'existe que dans un des deux états de l'écran (avant / pendant) serait une annonce qui n'a jamais lieu. */
+  {id:'seance-ux', screen:'log', desc:'Nouveau : l\'<b>écran Séance</b> s\'allège. Avant : « Séance libre » ou « Programme ». Pendant : l\'en-tête « Séance en cours » (chrono, séries de travail faites, <b>⋯</b>, <b>Terminer</b>), le repos en bas, 1:00 · 1:30 · 2:00 dans <b>Régler</b>.'},
   /* 📷 POINT ROUGE sur SÉANCE (ft-v1155) : c'est de là qu'on ouvre « Mes Programmes », donc
      là que la pastille doit ramener. ⛔ Sans `spot` : `_featSpots` fait `if(!el)return;`, donc
      un ancrage qui n'existe pas est une annonce qui n'a jamais lieu, en silence (ft-v1153).
@@ -904,6 +908,11 @@ const WHATS_NEW=[
        le canal par lequel ses retours arrivent. *Une disparition muette se lit comme une punition.*
        ⛔ POURQUOI `si:'testeur'` : les autres n'ont jamais vu ce pavé. Leur annoncer sa disparition
        serait du bruit pur, et le mécanisme existe exprès depuis ft-v1072. */
+  /* 🏋 UX SÉANCE (16/10/2026, cadrage validé par Michel) — ELLE SE MÉRITE : DES REPÈRES ONT BOUGÉ. « Terminer », la pause,
+     « Vider », « Changer » et les préréglages de repos ne sont plus là où on les trouvait ; sans un mot, on les chercherait.
+     ⛔ BORNÉE (R25) : où sont les choses maintenant, et ce qui ne change pas. Le POURQUOI vit dans l'aide (« ? » et aide
+     détaillée). Chaque phrase est vraie dans le code servi (banc B-UXS). */
+    {v:78, ic:'🏋', t:'L\'écran Séance s\'allège', d:'① Avant la séance : <b>« Séance libre »</b> ou <b>« Programme »</b>. ② Pendant : <b>« Séance en cours »</b> en haut, avec ton chrono, tes séries de travail et <b>« Terminer »</b> — s\'il en reste, l\'app te le dit avant d\'enregistrer. ③ Pause, date, grouper, programmes, vider : dans <b>⋯</b>. ④ Le repos s\'affiche <b>en bas</b> ; 1:00 · 1:30 · 2:00 sont dans <b>Régler</b> (touche le temps ✎). Rien ne change dans tes séries ni ton historique.'},
   /* 🗂 PROGRES-SEANCES-01 (D-076, D-077) — ELLE SE MÉRITE : UN REPÈRE A BOUGÉ. Progrès s'ouvrait sur les
      graphiques d'exercice, l'historique en bas de cet onglet et coupé à 20 séances ; il s'ouvre maintenant sur
      Séances, l'historique rangé par année puis par mois. Sans un mot, la personne chercherait son historique là où

diff --git a/app.js b/app.js
@@ -8734,7 +8734,9 @@ const APP_GUIDE_SLIDES=[
   {img:'guide/recup-moniteur.jpg', t:'Ta récup, deux styles 💚', cap:'<b>Menu → Apparence → Carte récup</b> : garde l\'<b>anneau</b>, ou passe au <b>moniteur</b> — ton score en gros, une jauge où le <b>rouge</b> est ce qu\'il te reste à récupérer et le <b>vert</b> ce que tu as récupéré, avec un vrai tracé de cœur qui défile. Mêmes données, à toi de choisir.'},
   {img:'guide/etat-du-jour.jpg',tap:[.5,.38],  t:'Comment tu te sens aujourd\'hui ?', cap:'En 1-2 taps sur l\'Accueil : ton <b>énergie</b>, ton <b>moral</b> (😔 → 😄) et une éventuelle <b>gêne/douleur</b> (tape la zone). <b>Milo</b> adapte ses conseils du jour — il protège une zone qui fait mal, et si ton moral est bas il se fait plus <b>doux</b> (jamais un psy). Optionnel, ça repart à zéro chaque jour.'},
   {img:'guide/profil.jpg',     tap:[.5,.60],   t:'Remplis bien ton profil ⭐', cap:'<b>Le plus important !</b> Plus ton profil est complet, plus <b>Milo, ton coach IA</b>, est précis et personnalisé (récup et calories aussi). Un <b>% de remplissage</b> t\'aide à ne rien oublier.'},
-  {img:'guide/seance.jpg',     tap:[.875,.305],t:'Ta séance',              cap:'Note tes séries — <b>poids × reps</b> — et coche. Tes <b>records</b> se calculent tout seuls.'},
+  /* 🏋 UX SÉANCE (16/10/2026) — capture refaite : l'en-tête « Séance en cours » remplace la barre du logo pendant la séance,
+     et le doigt montre la coche de la série EN COURS (celle que l'écran met en avant). Profil de démonstration fictif. */
+  {img:'guide/seance.jpg',     tap:[.877,.481],t:'Ta séance',              cap:'Note tes séries — <b>poids × reps</b> — et coche : le <b>repos</b> démarre en bas. En haut, « <b>Séance en cours</b> » : ton chrono, tes séries de travail, <b>⋯</b> et <b>Terminer</b>. Tes <b>records</b> se calculent tout seuls.'},
   {icon:'⏳', t:'Ton repos est un MAXIMUM ⏳', cap:'Le temps de repos n\'est pas un compte à rebours qu\'il faut attendre : c\'est une <b>borne à ne pas dépasser</b>. <b>Tu peux repartir avant, c\'est permis</b> — c\'est ainsi que les coachs écrivent leurs programmes (« repos maximum : 1 à 2 min »). Le chrono ne s\'arrête donc plus à zéro : il continue en <b>+0:12</b>, <b>+0:45</b>… ⚠ Ce n\'est <b>pas un reproche</b> — un repos plus long est parfois exactement ce qu\'il faut. C\'est simplement une information que tu n\'avais pas : sur de vraies séances, le repos pris vaut <b>2 à 3 fois</b> le repos réglé.'},
   // ⚠ Diapo SANS image (format `icon:`, comme les 3 premières) : il n'existe pas de capture
   // du bloc cardio, et une diapo utile vaut mieux qu'une diapo repoussée en attendant la photo.

diff --git a/log.js b/log.js
@@ -179,13 +179,15 @@ function _renderEnteteSeance(){
   const p=_isWktPaused(), b=_bilanTravailWkt(), c=_contenuFinSeance(), exs=S.wkt.exs||[];
   const lbl=S.wkt.progLabel||((!exs.length&&_cardioNoteMin()>0)?'Cardio':'Séance libre');
   const esc=t=>String(t==null?'':t).replace(/&/g,'&amp;').replace(/</g,'&lt;').replace(/>/g,'&gt;');
-  const progres=b.total?(b.faites+' / '+b.total+' série'+(b.total>1?'s':'')):'';
+  // L'unité et le libellé sont dans LEUR élément : la traduction (translations.js) ne remplace qu'un texte EXACT.
+  // ⚠ Ce dictionnaire n'est chargé par AUCUNE page aujourd'hui (mesuré le 16/10 ; connu depuis 348556e1) : sans effet visible.
+  const progres=b.total?(b.faites+' / '+b.total+' <span>'+(b.total>1?'séries':'série')+'</span>'):'';
   const ic=(d,f)=>'<svg viewBox="0 0 24 24" aria-hidden="true" '+(f?'fill="currentColor"':'fill="none" stroke="currentColor" stroke-width="2.2" stroke-linecap="round" stroke-linejoin="round"')+'>'+d+'</svg>';
   const segs=exs.map(ex=>{ const x=_bilanTravailEx(ex), pct=x.total?Math.round(x.faites/x.total*100):0;
     return '<i'+(_exTermine(ex)?' class="ok"':'')+'><b style="width:'+pct+'%"></b></i>'; }).join('');
   el.innerHTML='<div class="tbs-r'+(p?' tbs-pause':'')+'">'
     +'<div class="tbs-meta"><b class="tbs-etat"><span class="tbs-live" aria-hidden="true"></span>'+(p?'Séance en pause':'Séance en cours')+'</b>'
-    +'<span class="tbs-l2"><span id="wkt-chrono" class="tbs-chrono">'+_fmtElapsed()+'</span>'+(progres?' · '+progres:'')+' · '+esc(lbl)+'</span></div>'
+    +'<span class="tbs-l2"><span id="wkt-chrono" class="tbs-chrono">'+_fmtElapsed()+'</span>'+(progres?' · '+progres:'')+' · <span>'+esc(lbl)+'</span></span></div>'
     +(p?'<button id="wkt-pause-btn" class="tbs-btn tbs-rep" onclick="toggleWktPause()" aria-label="Reprendre la séance" title="Reprendre">'+ic('<path d="M7 4l13 8-13 8z"/>',1)+'</button>':'')
     +'<button class="tbs-btn" onclick="openWktMenu()" aria-label="Plus d\'actions sur la séance" aria-haspopup="dialog">'+ic('<circle cx="5" cy="12" r="2"/><circle cx="12" cy="12" r="2"/><circle cx="19" cy="12" r="2"/>',1)+'</button>'
     +((c.fait||c.cardio)?'<button class="tbs-fin" onclick="terminerSeance()">'+ic('<path d="M4 15s1-1 4-1 5 2 8 2 4-1 4-1V3s-1 1-4 1-5-2-8-2-4 1-4 1z"/><line x1="4" y1="22" x2="4" y2="15"/>')+'Terminer</button>':'')
